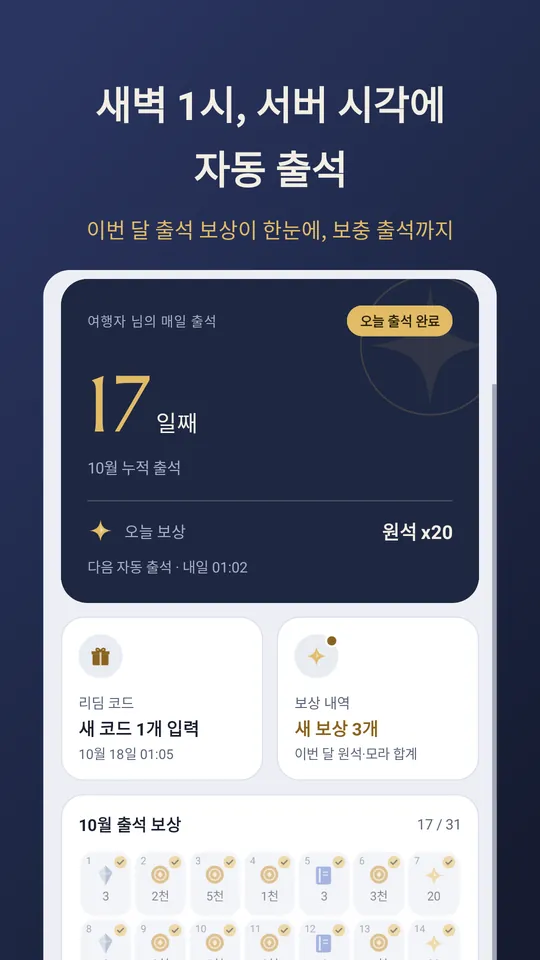
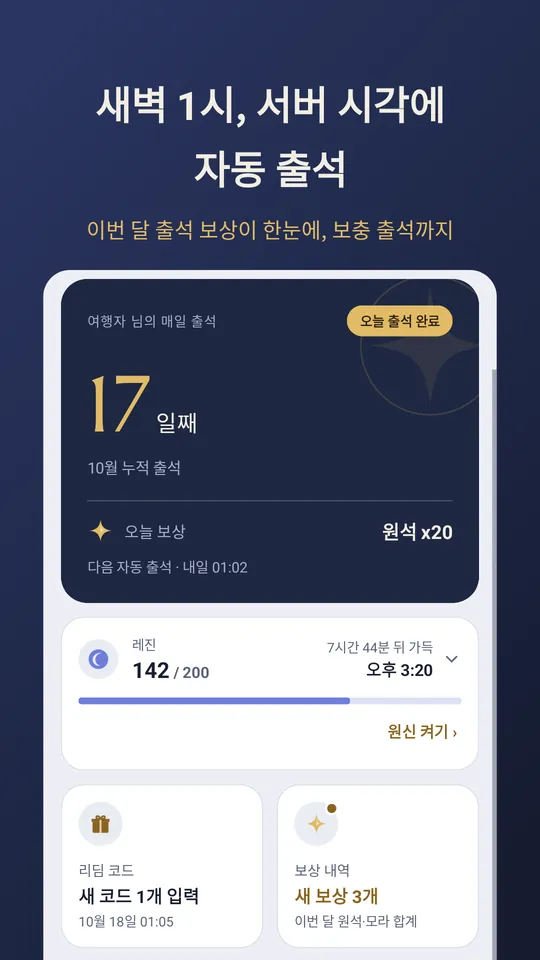
Landing page: current screenshots with the resin card, open-Genshin and main-screen editing
Claude-Session: https://claude.ai/code/session_01AVkzu9p2ytMeGHejvvs68H

diff --git a/checkin/index.html b/checkin/index.html
@@ -47,20 +47,22 @@
   <div class="shots" aria-label="앱 화면">
     <img src="/checkin/img/screenshot1Redeem.webp" alt="받은 리딤 코드와 보상 합계 화면" width="540" height="960" loading="lazy">
     <img src="/checkin/img/screenshot2CheckIn.webp" alt="새벽 1시 서버 시각에 자동 출석하는 메인 화면" width="540" height="960" loading="lazy">
-    <img src="/checkin/img/screenshot3History.webp" alt="이번 달 받은 원석과 리딤 보상 합계 화면" width="540" height="960" loading="lazy">
-    <img src="/checkin/img/screenshot4Alerts.webp" alt="밤에 온 알림은 무음으로, 아침 알림은 그대로 오는 알림창" width="540" height="960" loading="lazy">
-    <img src="/checkin/img/screenshot5Dark.webp" alt="여러 계정과 다크 모드 화면" width="540" height="960" loading="lazy">
-    <img src="/checkin/img/screenshot6Trust.webp" alt="비밀번호 저장 안 함, 서버·광고 없음, 1MB 미만" width="540" height="960" loading="lazy">
+    <img src="/checkin/img/screenshot3Resin.webp" alt="레진과 가득 차는 시각, 탐사 파견·주전자·일일 의뢰와 원신 켜기 버튼" width="540" height="960" loading="lazy">
+    <img src="/checkin/img/screenshot4History.webp" alt="이번 달 받은 원석과 리딤 보상 합계 화면" width="540" height="960" loading="lazy">
+    <img src="/checkin/img/screenshot5Alerts.webp" alt="밤에 온 알림은 무음으로, 아침 알림은 그대로 오는 알림창" width="540" height="960" loading="lazy">
+    <img src="/checkin/img/screenshot6Dark.webp" alt="여러 계정과 다크 모드 화면" width="540" height="960" loading="lazy">
+    <img src="/checkin/img/screenshot7Trust.webp" alt="비밀번호 저장 안 함, 서버·광고 없음, 1MB 미만" width="540" height="960" loading="lazy">
   </div>
 
   <h2>하는 일</h2>
   <ul class="features">
     <li><strong>리딤코드 자동 입력</strong> 방송·이벤트로 공개된 코드를 찾아 고른 캐릭터로 입력해요. 원석은 게임 우편함으로 와요.</li>
     <li><strong>새벽 1시 자동 출석</strong> 폰 시계가 아니라 호요랩 서버 시각에 맞춰, 날짜가 바뀐 직후에 출석해요. 이번 달 출석 보상은 달력으로 한눈에 봐요.</li>
-    <li><strong>레진 알림·위젯</strong> 레진이 정한 개수가 되면 알려 줘요. 홈 화면 위젯으로 레진과 가득 차는 시각을 바로 봐요.</li>
+    <li><strong>레진 알림·위젯</strong> 레진이 정한 개수가 되면 알려 줘요. 탐사 파견·주전자 동전까지 보고, '원신 켜기'로 게임을 바로 열어요. 홈 화면 위젯으로 레진과 가득 차는 시각을 바로 봐요.</li>
     <li><strong>보상 내역</strong> 이번 달 받은 원석·모라와 리딤 코드로 받은 보상의 합계를 한눈에 봐요.</li>
     <li><strong>보충 출석</strong> 놓친 날이 있으면 알려 주고, 누르면 바로 보충해요.</li>
     <li><strong>여러 계정, 알림 골라 받기</strong> 계정을 여러 개 등록할 수 있어요. 알림은 종류별로 끌 수 있고, 켜 둔 알림도 밤에는 소리 없이 와요.</li>
+    <li><strong>내 맘대로 메인 화면</strong> 카드를 꾹 눌러 순서를 바꾸고, 안 보는 카드는 서랍에 넣어 둬요.</li>
   </ul>
 
   <h2>안심하고 쓰세요</h2>
